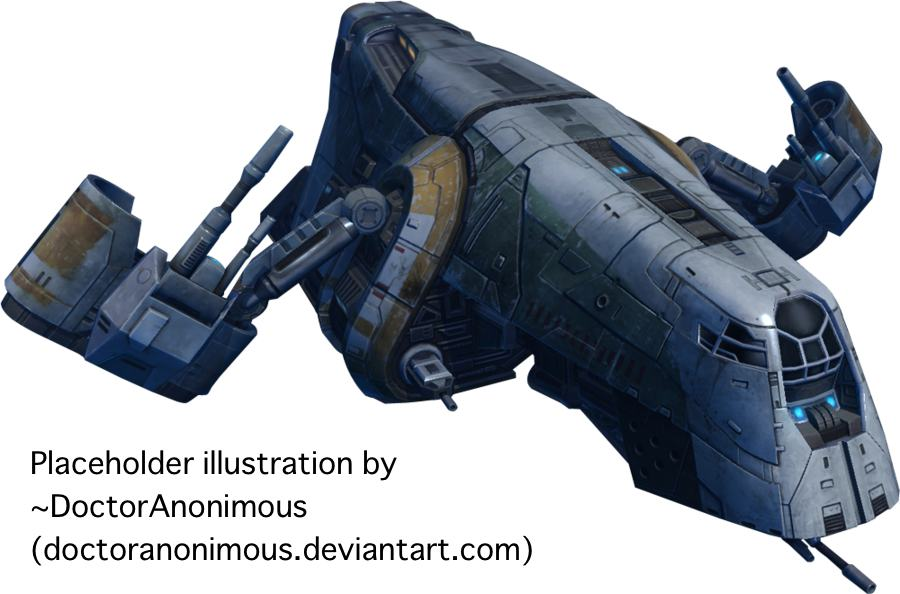
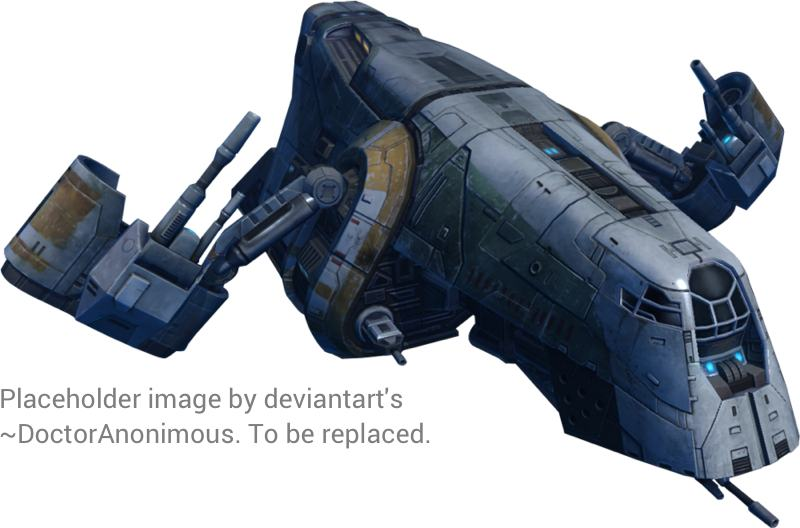
Nicer layout of Bodega, incl. new image and a synopsis

Changed region(s): [[0.0, 0.7273, 0.5312, 0.8788], [0.0312, 0.9091, 0.5938, 0.9697]]

diff --git a/dart/books/bodega/index.html b/dart/books/bodega/index.html
@@ -22,7 +22,8 @@
     
     <div id="book-header">
       <h1>The Bodega Incident</h1>
-      <p>[This is where the synopsis will go.]</p>
+      <p>A strange series of events have left you as the sole survivor on the Bodega, a large cargo ship stranded in the middle of an interstellar flight. You are alone and dying from an unidentified disease, you just lost the only person who seemed to know what he's doing, the ship hates you, the hyperdrive doesn't work, and things are only going to get worse.</p>
+      <p><img src="img/placeholder_img.jpg" alt="Placeholder image"></p>
     </div>
     
     <div id="book-wrapper">

diff --git a/dart/books/bodega/egamebook.css b/dart/books/bodega/egamebook.css
@@ -120,9 +120,13 @@ nav a {
 	top:1px;
 } /* This imageless css button was generated by CSSButtonGenerator.com */
 
+div#book-header {
+  margin-top: 3.5em;
+}
+
 h1 {
   color: #000;
-  margin: 1.5em 0 1em;
+  margin: 0.5em 0 0.5em;
   font: bold 250% 'Roboto', sans-serif;
   text-align: left;
 }

diff --git a/dart/books/bodega/indexdev.html b/dart/books/bodega/indexdev.html
@@ -23,6 +23,7 @@
     <div id="book-header">
       <h1>The Bodega Incident</h1>
       <p>[This is where the synopsis will go.]</p>
+      <p><img src="img/placeholder_img.jpg" alt="Placeholder image"></p>
     </div>
     
     <div id="book-wrapper">
